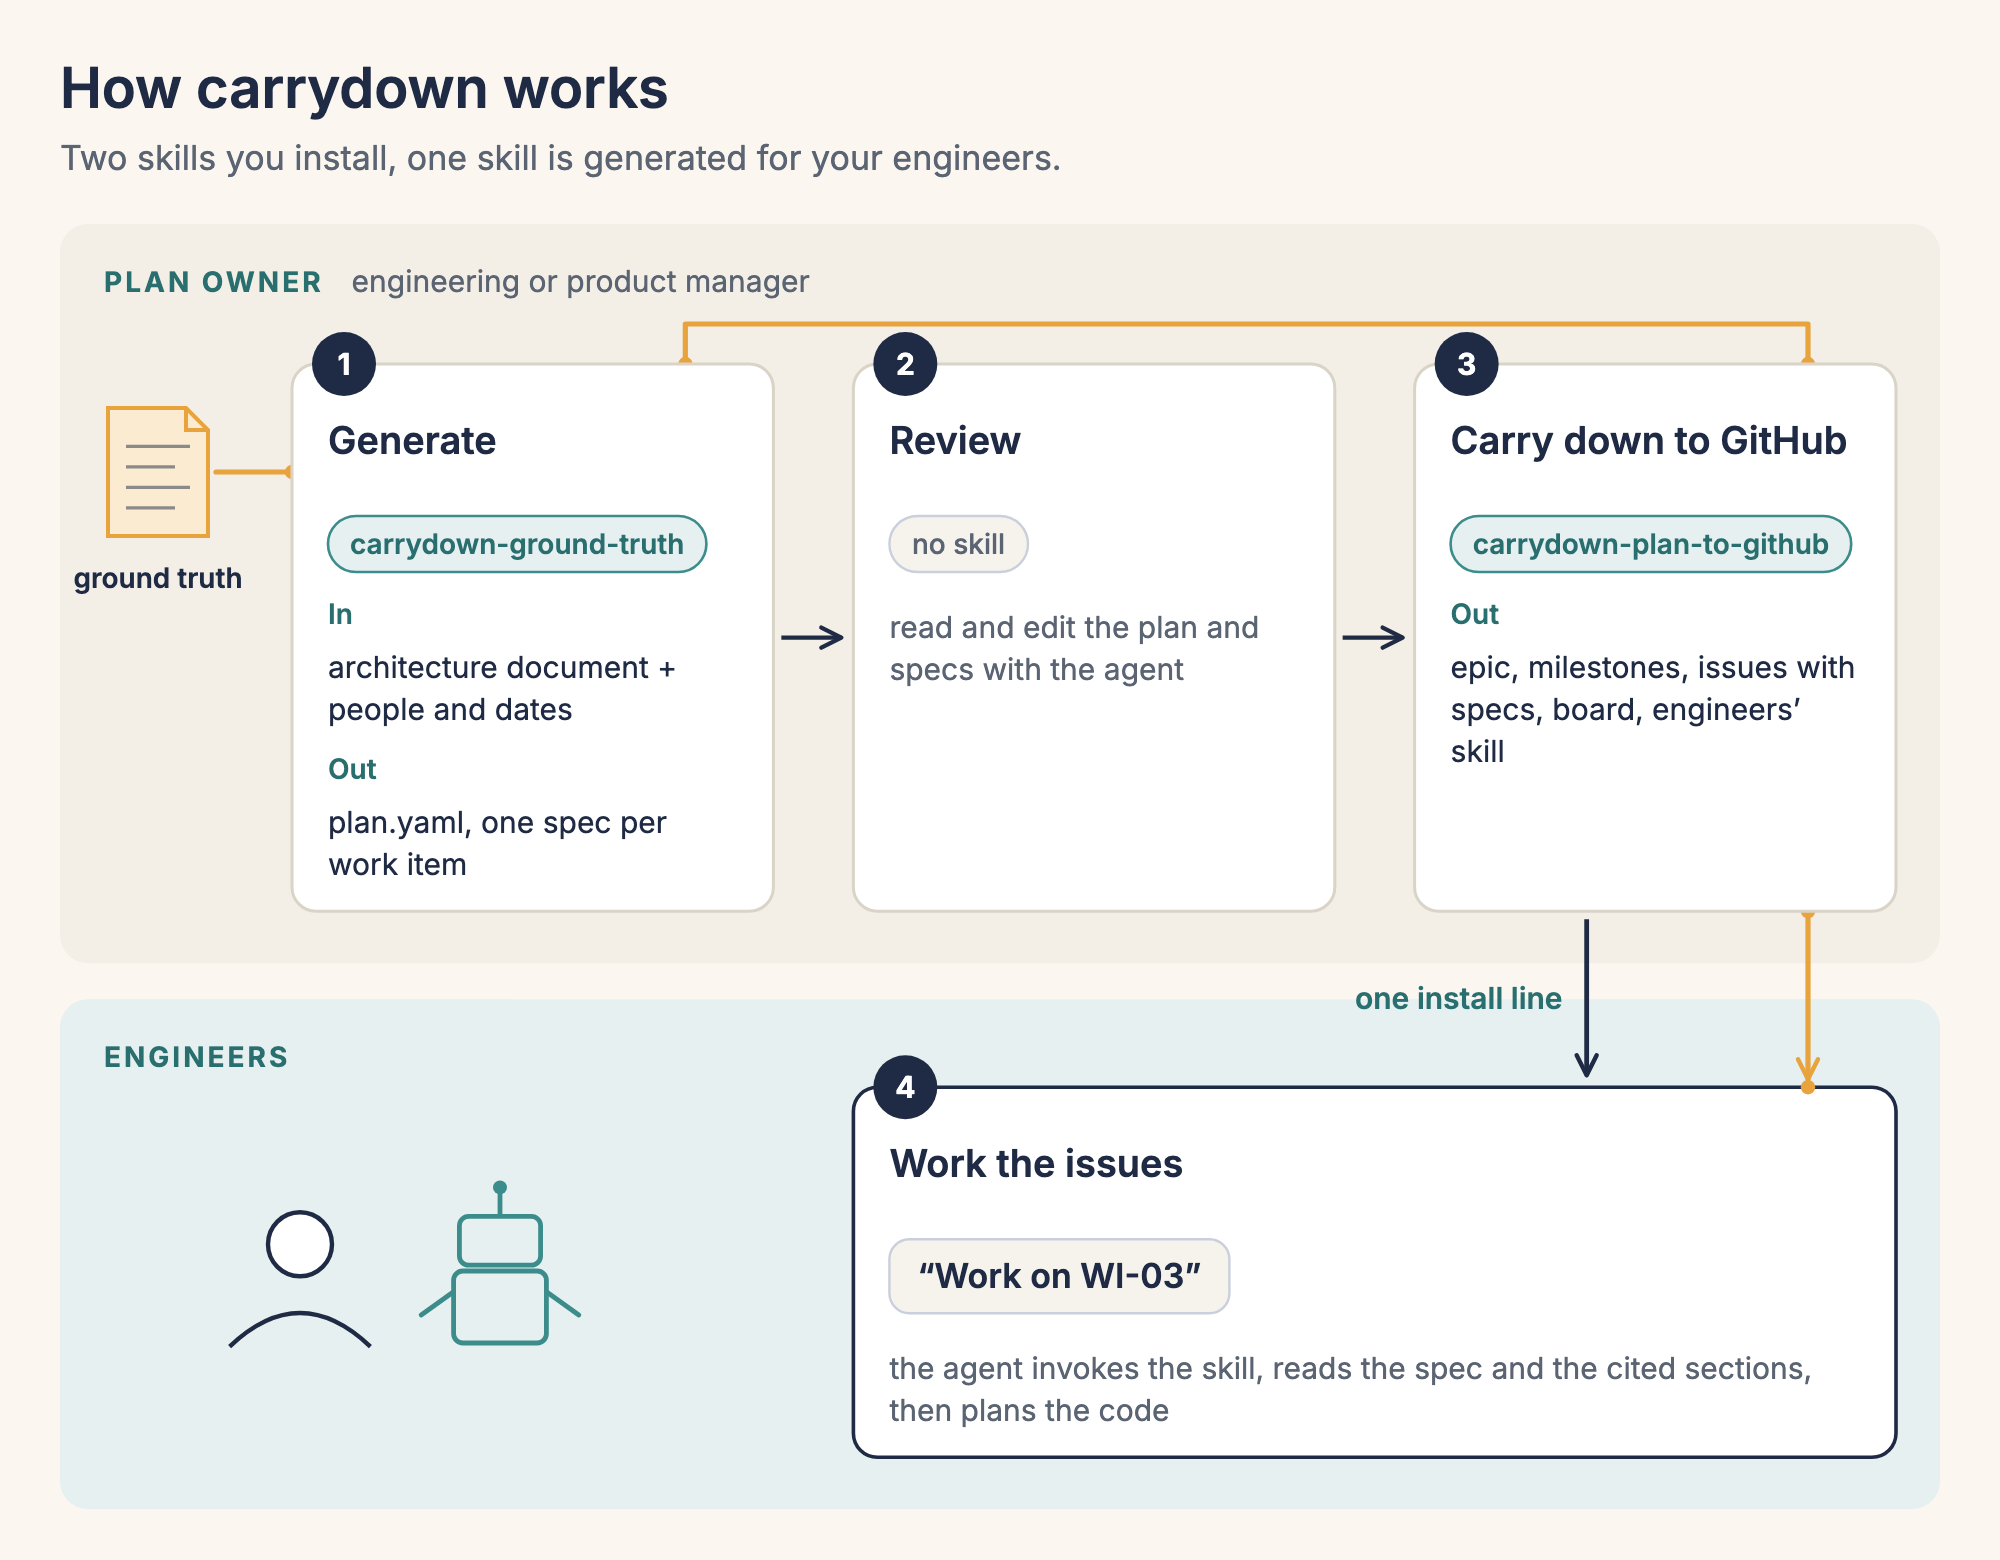
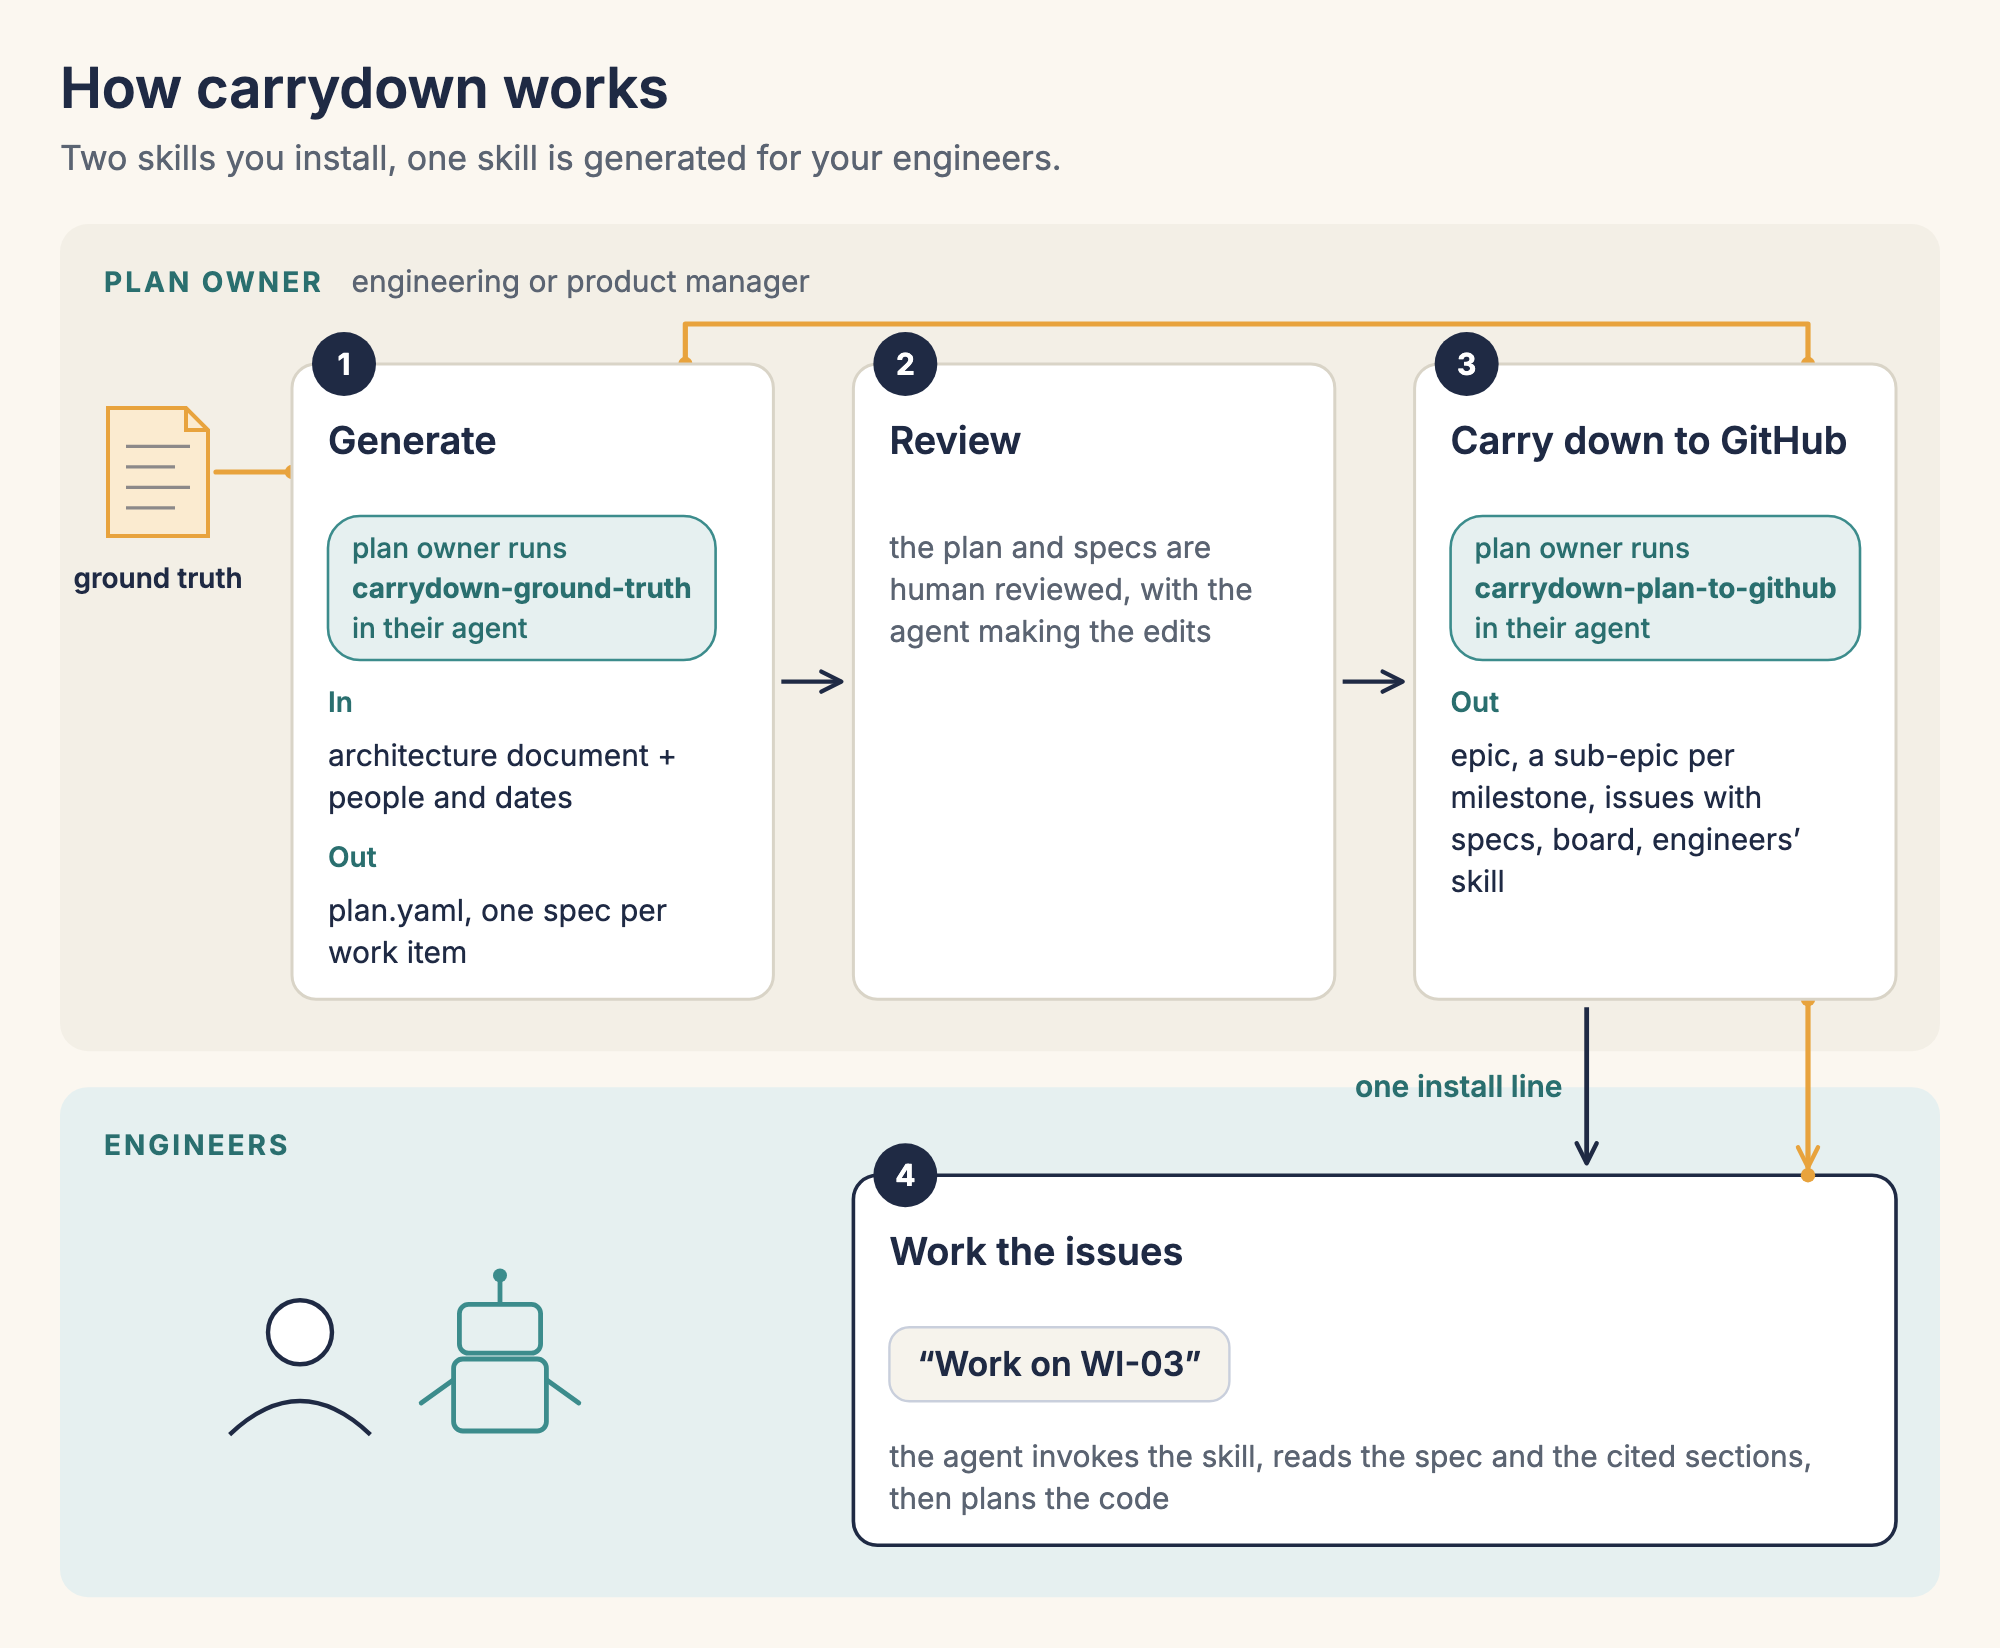
Make the README hero 3 to 1 and say who runs each skill in the handoff diagram
The hero keeps its content at 4800 by 1600, which lifts the install line on the
first screen; a 2 to 1 copy becomes the social preview. In the handoff diagram
the plan owner runs each skill in their agent, step 2 says the plan and specs
are human reviewed with the agent making the edits, and step 3 lists a sub-epic
per milestone. The README alt text and the metadata proposal follow.

diff --git a/CHANGELOG.md b/CHANGELOG.md
@@ -7,6 +7,7 @@ All notable changes to this project are written here. The format follows Keep a 
 - Two skills you install, one skill is generated for your engineers. The former third skill folder is merged into `carrydown-plan-to-github`, whose last step, "Generate the engineers' skill", runs `generate_dev_skill.py` and prints the install line. The generator, its templates and its install, maintenance and review references moved with it. Two roles remain: the plan owner, who runs both skills and reviews the generated plan and specifications with the agent, and the engineers, who install the generated skill. The separate reviewer and the named role for the people who watch the demonstrations are gone. The self test now has 158 steps.
 - Work outside the plan is called what it is. Work the team depends on but does not schedule, such as a sign-off or a security review, is an external item, listed under `external` in `plan.yaml`. An item that waits for one sets `external_input`, and its Depends on row, its issue and the engineers' skill say "external input". The library function is `external_ids`. The checker report heading is "External items (outside the development plan; referenced only as external input)", the sync summary says "N external items kept outside the plan", and the specification README table column is "External item". A plan written with the older key and item field still loads: `carrydown_lib.py` reads them as `external` and `external_input`, and the README refresh recognises the older column headers.
 - README rewritten around the reader: the reason first, a picture of the output, look, try and install in order of effort, a two-sided conversation, three badges and two entry points (README and the plan owner guide). START-HERE.md is a pointer. New docs: repository-metadata.md and recording-storyboard.md.
+- The README hero is 3 to 1, so the install line sits higher, and a 2 to 1 copy, `docs/images/social-preview.png`, is the social preview. The handoff diagram says that the plan owner runs each skill in their agent and that the plan and specifications are human reviewed, with the agent making the edits. The six-step flow diagram is gone.
 
 ### Added
 

diff --git a/README.md b/README.md
@@ -22,7 +22,7 @@ To look before you install, open [the sample board](https://github.com/users/sct
 
 ## How it works
 
-![How carrydown works. Two lanes. Plan owner, an engineering or product manager: step 1 Generate with carrydown-ground-truth, in: architecture document plus people and dates, out: plan.yaml and one spec per work item; step 2 Review, no skill, read and edit the plan and specs with the agent; step 3 Carry down to GitHub with carrydown-plan-to-github, out: epic, a sub-epic per milestone, issues with specs, board, engineers' skill. One install line goes down to the Engineers lane: step 4 Work the issues, "Work on WI-03", the agent invokes the skill, reads the spec and the cited sections, then plans the code. The ground truth document is the only amber element and a thin amber thread runs from it through steps 1 and 3 into step 4.](docs/images/handoff.png)
+![How carrydown works. Two lanes. Plan owner, an engineering or product manager: step 1 Generate, the plan owner runs carrydown-ground-truth in their agent, in: architecture document plus people and dates, out: plan.yaml and one spec per work item; step 2 Review, the plan and specs are human reviewed, with the agent making the edits; step 3 Carry down to GitHub, the plan owner runs carrydown-plan-to-github in their agent, out: epic, a sub-epic per milestone, issues with specs, board, engineers' skill. One install line goes down to the Engineers lane: step 4 Work the issues, "Work on WI-03", the agent invokes the skill, reads the spec and the cited sections, then plans the code. The ground truth document is the only amber element and a thin amber thread runs from it through steps 1 and 3 into step 4.](docs/images/handoff.png)
 
 1. **Generate.** You have the ground truth, usually an architecture document. Your agent interviews you about people, time and dates, then writes the plan and one specification per work item. Skill: [carrydown-ground-truth](skills/carrydown-ground-truth/SKILL.md).
 2. **Review.** You read the plan and the specifications and edit them with the agent until they are right. No separate reviewer.

diff --git a/docs/repository-metadata.md b/docs/repository-metadata.md
@@ -31,7 +31,7 @@ Compared with today's six topics, this keeps `agent-skills`, `github-projects` a
 
 **Skills badge:** the Agent Skills badge under the README title reads `2 skills`: two skills you install, one skill is generated for your engineers. The badge address is `https://img.shields.io/badge/Agent%20Skills-2%20skills-teal`.
 
-**Social preview image:** upload [`docs/images/hero.png`](images/hero.png) in Settings, General, Social preview. It is 4800 by 2400 pixels, the 2 to 1 ratio GitHub asks for, and about 400 KB, under the 1 MB limit. It carries the name, the tagline and the install line, so a shared link reads on its own.
+**Social preview image:** upload [`docs/images/social-preview.png`](images/social-preview.png) in Settings, General, Social preview. It is the README hero at 4800 by 2400 pixels, the 2 to 1 ratio GitHub asks for, and about 420 KB, under the 1 MB limit. The README itself shows the same hero at 3 to 1, [`docs/images/hero.png`](images/hero.png), so the install line sits higher on the page. Both carry the name, the tagline, the canonical phrase and the install line, so a shared link reads on its own.
 
 **How to apply.** The description, homepage and topics can be set in one command by someone with admin rights. The social preview has no command and is uploaded in the settings page.
 
